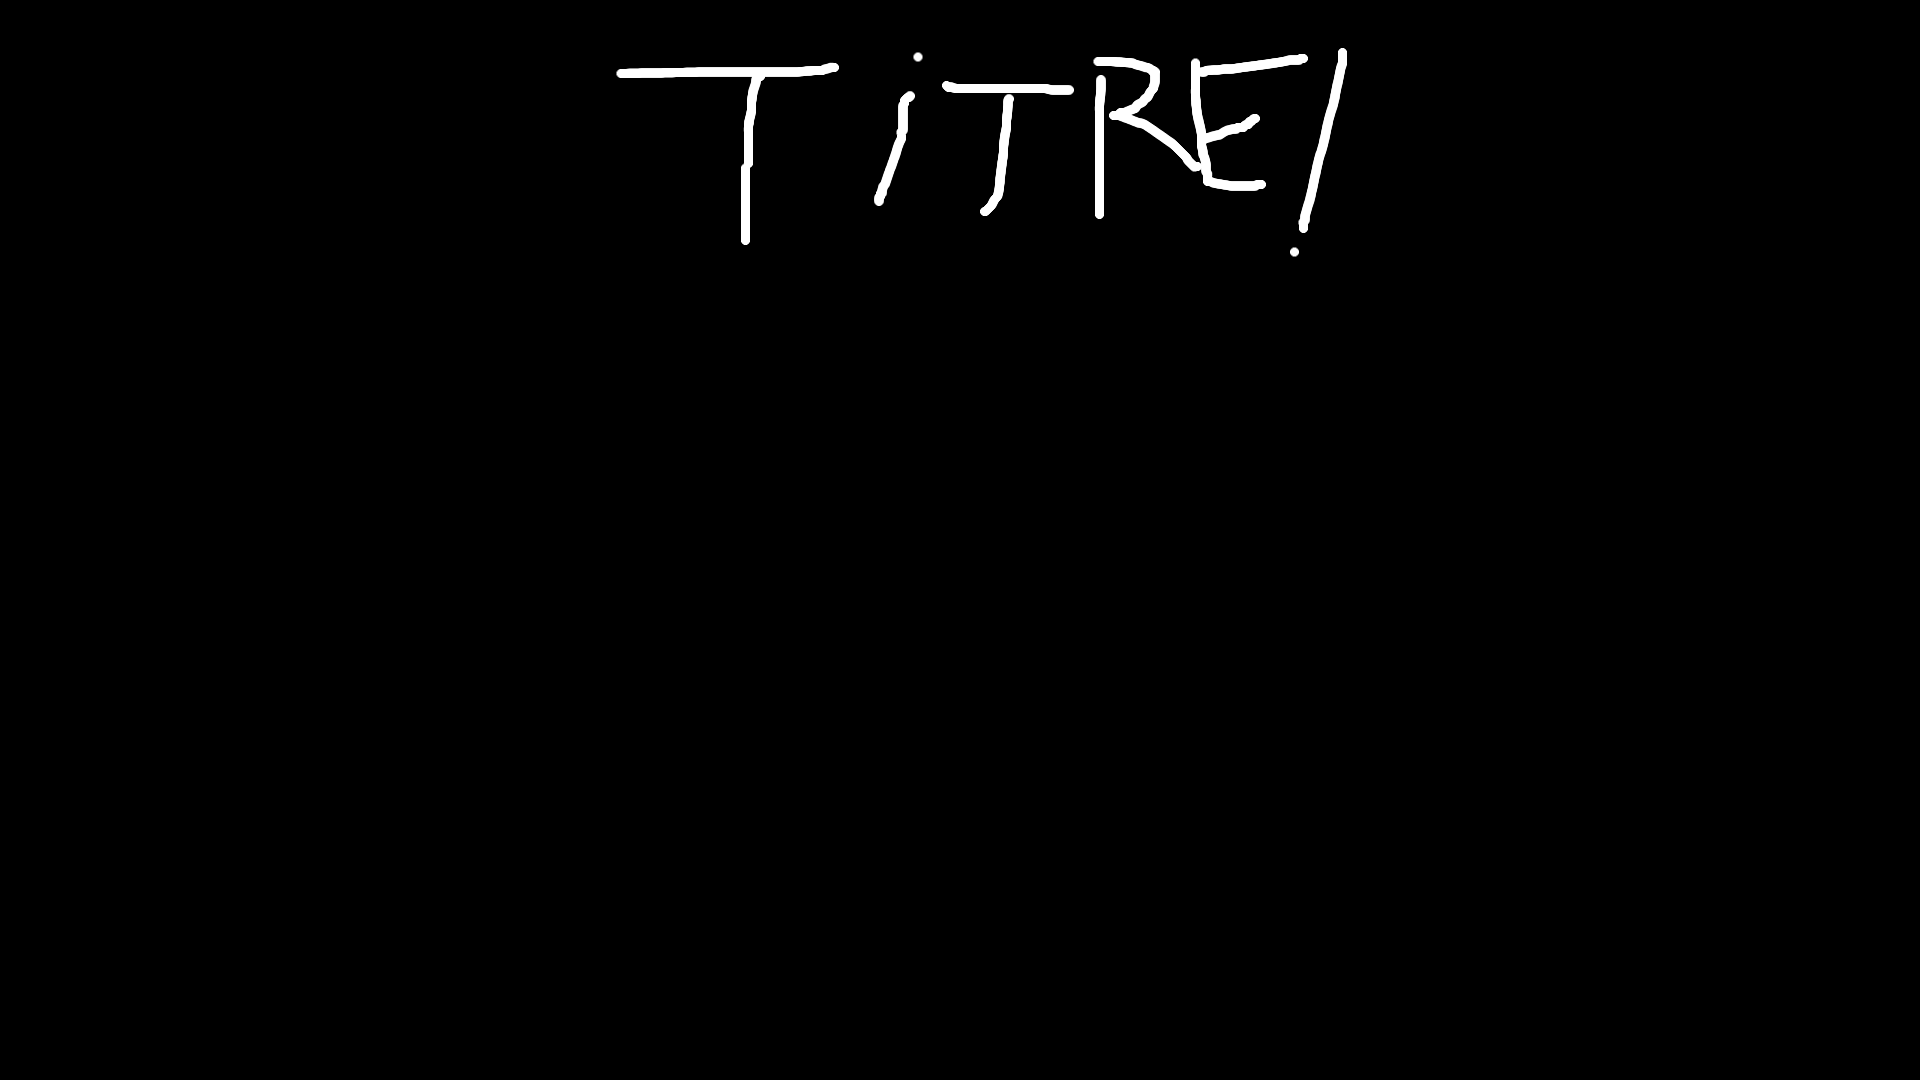
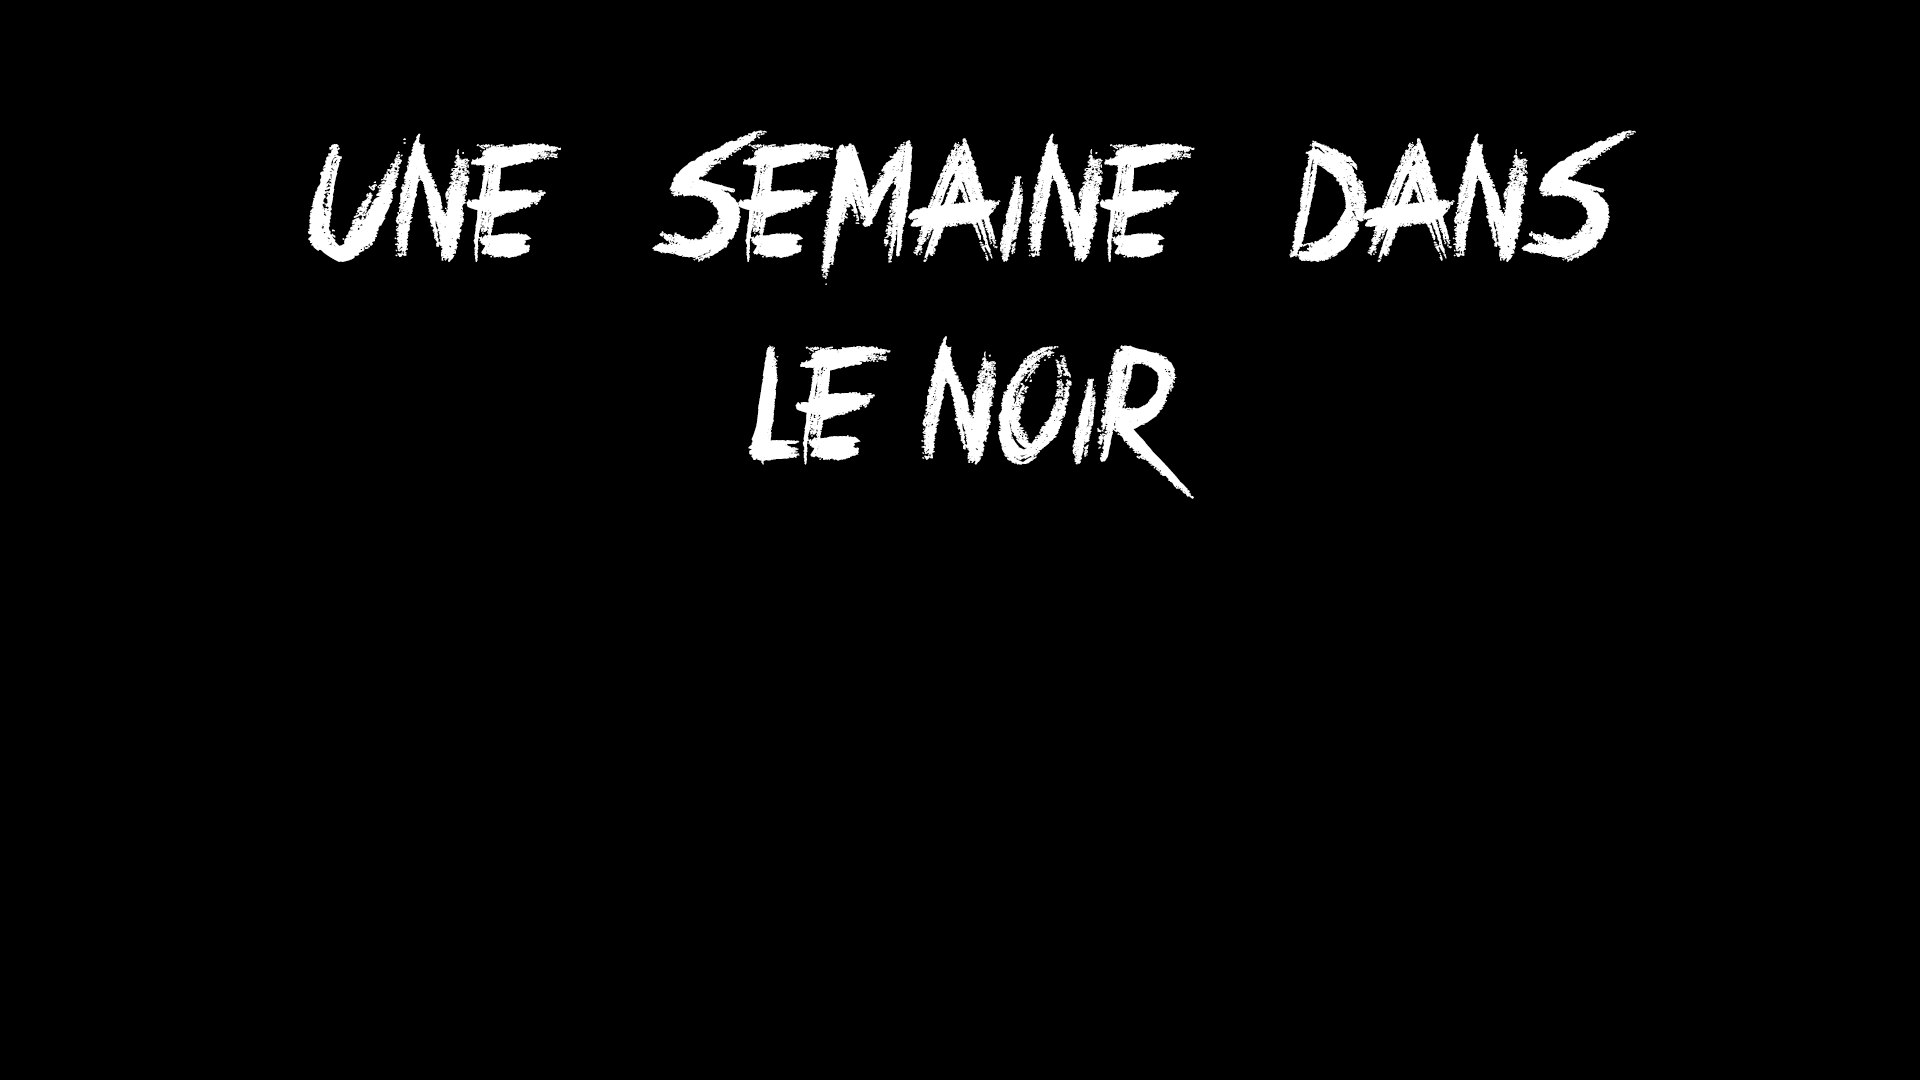
Hey, on a une intro de semi affordants !

diff --git a/Dev/UNIJAM_2016/Assets/Scripts/DaysManager.cs b/Dev/UNIJAM_2016/Assets/Scripts/DaysManager.cs
@@ -15,6 +15,8 @@ public class DaysManager : MonoBehaviour {
     public SpriteRenderer lumieresRenderer;
     public Sprite lumieresOn;
     public Sprite lumieresOff;
+
+    string[] parts;
     
 
 	void Start () {
@@ -27,6 +29,7 @@ public class DaysManager : MonoBehaviour {
 
         prologueTab = new String[nmbDayMAX];
         prologueTab[0] = "Aujourd'hui, rien ne va plus. Le monde est trop dangereux, des zombies partout... \r\n Je dois rester chez moi. Les murs sont froids, je me sens partir un peu plus chaque jour.\r\n Combien de temps vais-je tenir ?";
+
         prologueTab[1] = "Je suis le texte du deuxième jour";
         prologueTab[2] = "Je suis le texte du troisième jour";
         /*prologueTab[3] = "Je suis le texte du cinquième jour.\r\n Non, j'ai menti.";
@@ -35,6 +38,16 @@ public class DaysManager : MonoBehaviour {
         prologueTab[6] = "Je suis le texte du septième jour.";
         prologueTab[7] = "Je suis le texte du huitième jour.";
         prologueTab[8] = "Je suis le texte du dernier jour.";*/
+
+        parts = new string[7];
+        parts[0] = "Aujourd'hui, rien ne va plus.";
+        parts[1] = "Le monde est trop dangereux, des zombies partout...\r\n Je dois rester chez moi.";
+        parts[2] = "Les murs sont froids. Je me sens partir un peu plus chaque jour.";
+        parts[3] = "Combien de temps vais-je tenir?";
+        parts[4] = "";
+        parts[5] = "Les Semi-affordants vous présentent...";
+        parts[6] = "UNE SEMAINE DANS LE NOIR";
+
         
         eventManager = GameObject.FindGameObjectWithTag("EventManager").GetComponent<EventManager>();
         uiManager = GameObject.FindGameObjectWithTag("UIManager").GetComponent<UIManager>();
@@ -67,7 +80,7 @@ public class DaysManager : MonoBehaviour {
             timerTab[mDay].Reset();
             mDay++;
             uiManager.AffichePrologue(prologueTab[mDay]);
-            timerTab[mDay].Set(-uiManager.prologueDuration);
+            timerTab[mDay].Set(-uiManager.BasicDuration);
             timerTab[mDay].LetsStart();
         }
         else
@@ -80,7 +93,7 @@ public class DaysManager : MonoBehaviour {
     {
         SoundManager.PlayMusique("saddest");
         mDay = 0;
-        uiManager.AffichePrologue(prologueTab[mDay]);
+        uiManager.AfficheMultiplePrologue(parts, 7, 3.0f);
     }
 
     public void ResetAllTimers()

diff --git a/Dev/UNIJAM_2016/Assets/Scripts/UIManager.cs b/Dev/UNIJAM_2016/Assets/Scripts/UIManager.cs
@@ -11,7 +11,7 @@ public class UIManager : MonoBehaviour {
 
     public GameObject prologue;
     public Text prologueText;
-    public float prologueDuration = 13.0f;
+    public float BasicDuration = 13.0f;
 
     public GameObject bedroom;
 
@@ -42,16 +42,35 @@ public class UIManager : MonoBehaviour {
         DialogBox.SetActive(false);
     }
 
-    public void AffichePrologue(string phrase)
+    public void AffichePrologue(string phrase, float prologueDuration = 13.0f)
     {
         prologueText.text = phrase;
-        StartCoroutine(PrologueCoroutine());
+        StartCoroutine(PrologueCoroutine(prologueDuration));
     }
 
-    private IEnumerator PrologueCoroutine()
+    public void AfficheMultiplePrologue(string[] phrases, int n, float prologueDuration = 8.0f)
+    {
+        StartCoroutine(MultipleCoroutine(phrases, n, prologueDuration));
+    }
+
+    private IEnumerator PrologueCoroutine(float prologueDuration)
     {
         bedroom.SetActive(false);
         prologue.SetActive(true);
+        yield return new WaitForSeconds(prologueDuration);
+        prologue.SetActive(false);
+        bedroom.SetActive(true);
+    }
+
+    private IEnumerator MultipleCoroutine(string[] phrases, int n, float prologueDuration)
+    {
+        bedroom.SetActive(false);
+        prologue.SetActive(true);
+        for (int i = 0; i < n; i++)
+        {
+            prologueText.text = phrases[i];
+            yield return new WaitForSeconds(prologueDuration);
+        }
         yield return new WaitForSeconds(prologueDuration);
         prologue.SetActive(false);
         bedroom.SetActive(true);
@@ -79,7 +98,7 @@ public class UIManager : MonoBehaviour {
         daysManager.ResetAllTimers();
         bedroom.SetActive(false);
         prologue.SetActive(true);
-        yield return new WaitForSeconds(prologueDuration);
+        yield return new WaitForSeconds(BasicDuration);
         game.SetActive(false);
         menu.SetActive(true);
         bedroom.SetActive(true);

diff --git a/Dev/UNIJAM_2016/Assets/Scripts/EventManager.cs b/Dev/UNIJAM_2016/Assets/Scripts/EventManager.cs
@@ -7,6 +7,8 @@ public class EventManager : MonoBehaviour {
     UIManager uiManager;
     GaugeManager gaugeManager;
 
+    public GameObject chat;
+
     public Dictionary<int, Event[]> eventsOfDays;
 
     private Event[] eDayOne;
@@ -39,6 +41,7 @@ public class EventManager : MonoBehaviour {
         initiateDays();
         initiateEventsOfDays();
         BuildActions();
+        chat.SetActive(false);
     }
 
     void Update()
@@ -170,6 +173,7 @@ public class EventManager : MonoBehaviour {
     {
         uiManager.Dialog("Qu'est-ce que c'est que ça ?", 5.0f);
         SoundManager.PlayBruitage("miaou");
+        chat.SetActive(true);
     }
 
     public void ActionOne3()
@@ -192,5 +196,7 @@ public class EventManager : MonoBehaviour {
         {
             eDayTwo[i].AEteLance = false;
         }
+
+        chat.SetActive(false);
     }
 }

diff --git a/Dev/UNIJAM_2016/Assets/Scripts/AnimationScript.cs b/Dev/UNIJAM_2016/Assets/Scripts/AnimationScript.cs
@@ -36,7 +36,6 @@ public class AnimationScript : MonoBehaviour {
         if (nextTime < Time.time)
         {
             i = (i + 1) % sprites.Length;
-            Debug.Log(sprites[i]);
             if (sprites[i] != null)
             {
                 srenderer.sprite = sprites[i];
